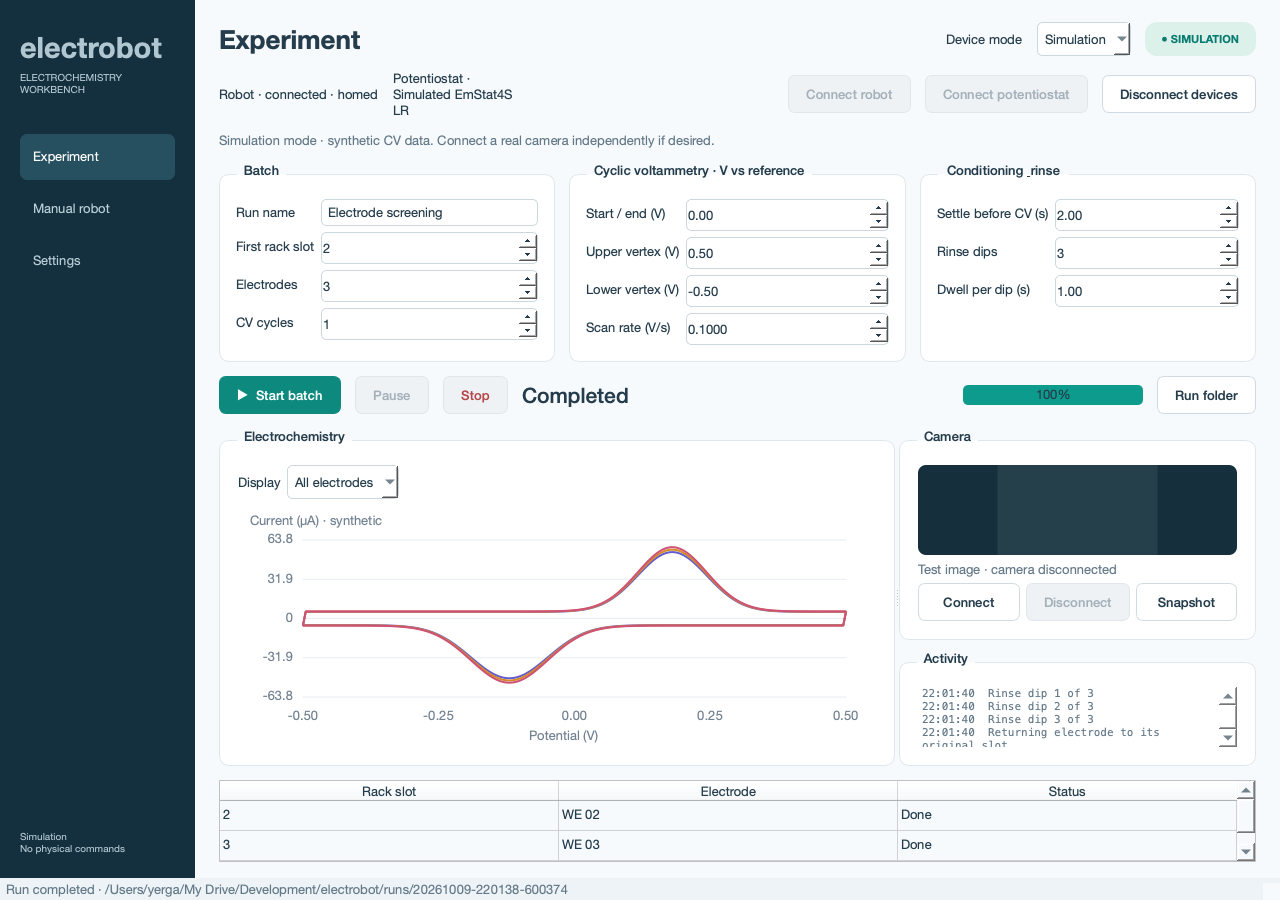
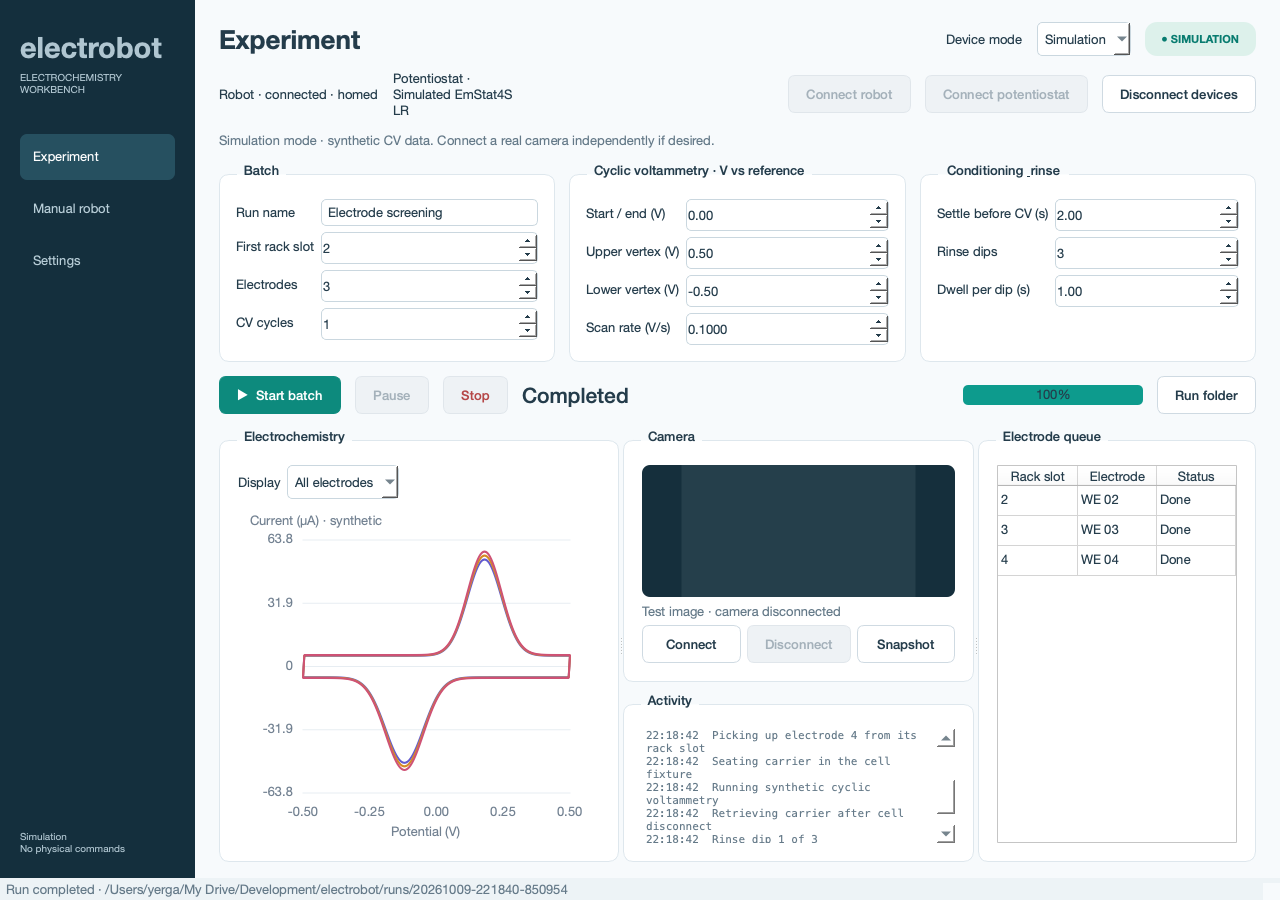
Compact CV plot and move electrode queue to right panel

diff --git a/electrobot/app.py b/electrobot/app.py
@@ -158,7 +158,7 @@ class Window(QMainWindow):
         self.main_split=QSplitter(Qt.Orientation.Horizontal)
         graph,gl=card('Electrochemistry'); tools=QHBoxLayout(); tools.addWidget(QLabel('Display')); self.plot_selection=QComboBox(); self.plot_selection.addItem('All electrodes',None)
         self.plot_selection.currentIndexChanged.connect(self.select_plot); tools.addWidget(self.plot_selection); tools.addStretch(); gl.addLayout(tools)
-        self.plot=Plot(); self.plot.setMinimumWidth(350); self.plot.setMinimumHeight(210); gl.addWidget(self.plot); self.main_split.addWidget(graph)
+        self.plot=Plot(); self.plot.setMinimumWidth(300); self.plot.setMinimumHeight(210); gl.addWidget(self.plot); self.main_split.addWidget(graph)
         right=QWidget(); rl=QVBoxLayout(right); rl.setContentsMargins(0,0,0,0); rl.setSpacing(10)
         camera,cl=card('Camera'); self.preview=CameraPreview(); cl.addWidget(self.preview,1)
         self.camera_status=QLabel('Disconnected'); self.camera_status.setObjectName('note'); self.camera_status.setWordWrap(True); cl.addWidget(self.camera_status)
@@ -166,10 +166,15 @@ class Window(QMainWindow):
         for b in (self.connect_camera,self.disconnect_camera,self.snapshot): buttons.addWidget(b)
         cl.addLayout(buttons); rl.addWidget(camera,3)
         activity,al=card('Activity'); self.log=QPlainTextEdit(); self.log.setReadOnly(True); self.log.setMaximumBlockCount(2000); self.log.setMinimumHeight(60); al.addWidget(self.log); rl.addWidget(activity,2)
-        self.main_split.addWidget(right); self.main_split.setSizes([720,380]); self.main_split.setStretchFactor(0,2); self.main_split.setStretchFactor(1,1); l.addWidget(self.main_split,1)
+        self.main_split.addWidget(right)
+        electrodes,el=card('Electrode queue')
         self.queue_table=QTableWidget(0,3); self.queue_table.setHorizontalHeaderLabels(['Rack slot','Electrode','Status']); self.queue_table.verticalHeader().hide()
         self.queue_table.horizontalHeader().setSectionResizeMode(QHeaderView.ResizeMode.Stretch); self.queue_table.setEditTriggers(QAbstractItemView.EditTrigger.NoEditTriggers)
-        self.queue_table.setMaximumHeight(115); self.queue_table.setMinimumHeight(75); l.addWidget(self.queue_table)
+        self.queue_table.setMinimumSize(240,150); el.addWidget(self.queue_table)
+        self.main_split.addWidget(electrodes)
+        self.main_split.setSizes([432,380,288])
+        for index,stretch in enumerate((39,35,26)): self.main_split.setStretchFactor(index,stretch)
+        l.addWidget(self.main_split,1)
         self.camera_buttons_update()
     def make_manual(self):
         w,l=self.page(); l.addWidget(self.note('Manual commands use the selected device mode. Home after connection before hardware movement. Stop halts the queue and requires homing again.'))

diff --git a/README.md b/README.md
@@ -34,7 +34,7 @@ On the Windows lab computer:
 
 ## Experiment workspace
 
-The main page includes batch name, first rack slot, number of electrodes, CV cycle count, start/end and vertex potentials, scan rate, settling time, and rinse settings. It also contains device connection status, start/stop controls, per-electrode progress, a CV plot, a compact camera preview with snapshots, and the activity log. Drag the divider to resize plot versus camera.
+The main page includes batch name, first rack slot, number of electrodes, CV cycle count, start/end and vertex potentials, scan rate, settling time, and rinse settings. It also contains device connection status, start/stop controls, per-electrode progress, a CV plot, a compact camera preview with snapshots, and the activity log. The lower workspace has three resizable columns: a compact CV plot, camera/activity, and the electrode queue on the right. Drag the dividers to adjust their widths.
 
 The camera is independent of robot/potentiostat mode: a real camera can be used during a simulated batch. No pickup detection or camera-based recovery is implemented yet.
 
